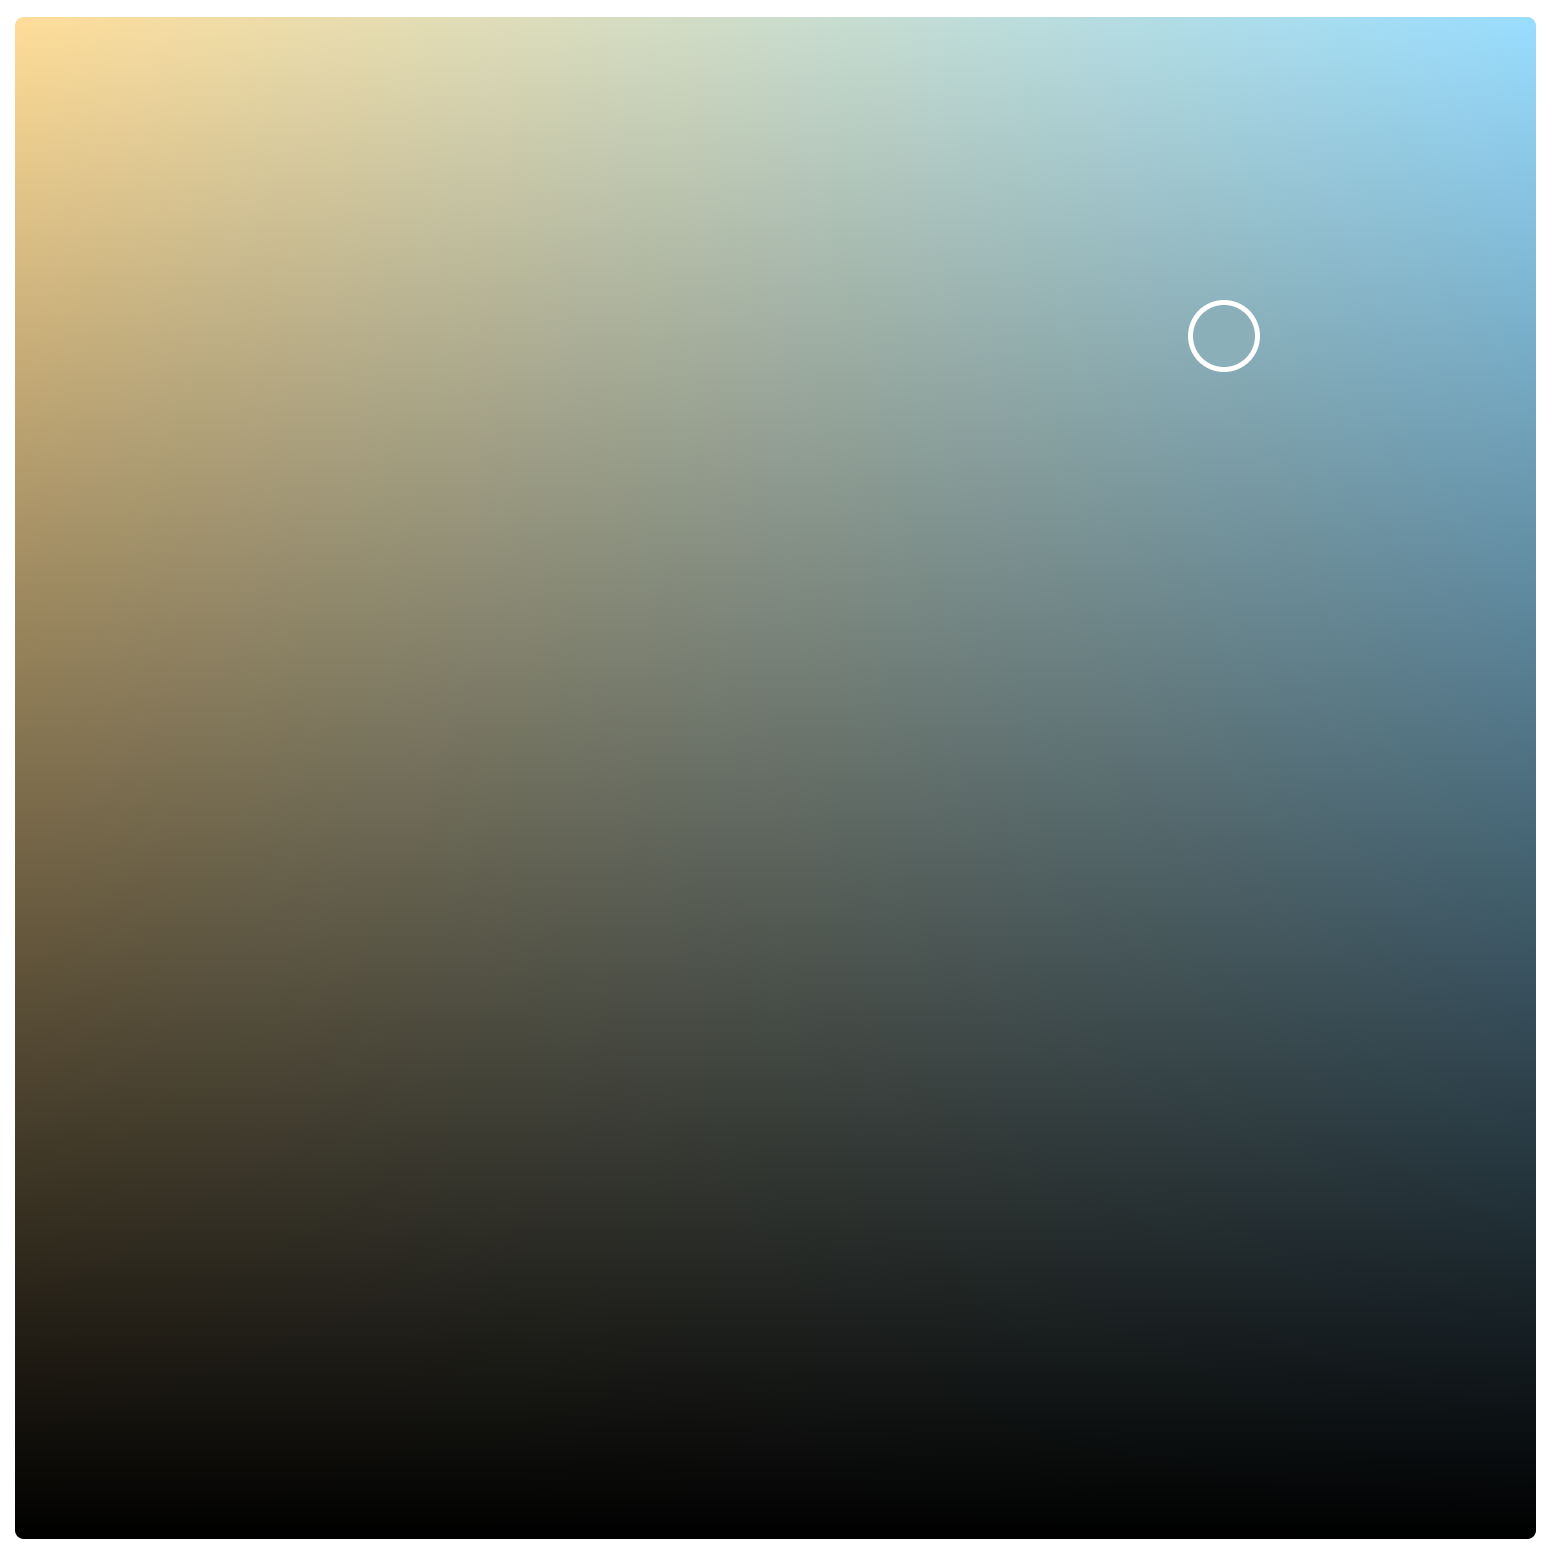
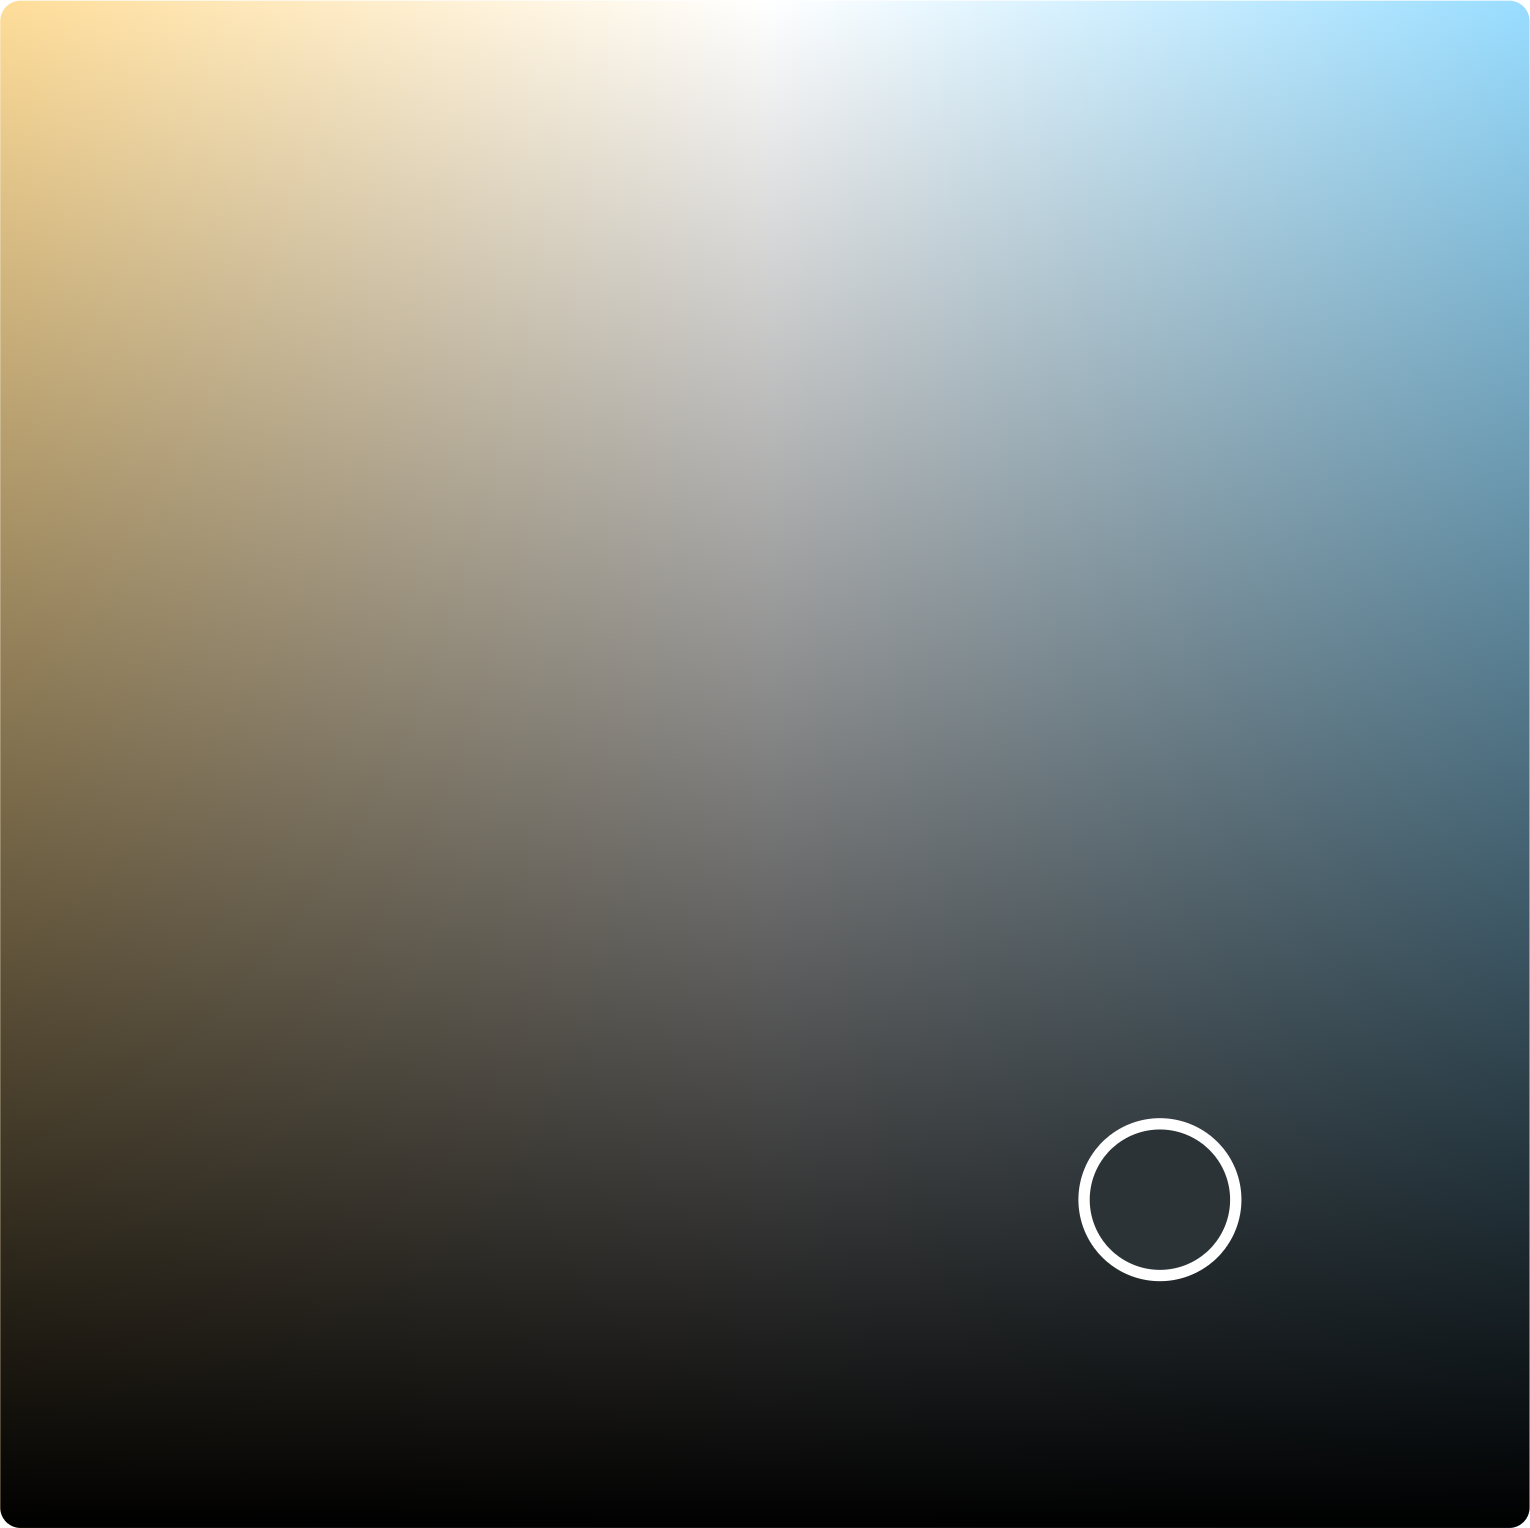
v0.3.0 (#4)
* add web component export

* improve readme

* add more options + changelog

* fix color conversion

* v0.3.0

* cleanup actions

* Update .mergify.yml

diff --git a/src/TwoChannelPicker.vue b/src/TwoChannelPicker.vue
@@ -22,6 +22,7 @@
 				:style="{
 					background: currentColor,
 					transform: translate,
+					...getMarkerStyles(_options),
 				}"
 			/>
 		</div>
@@ -39,20 +40,13 @@ export default {
 	mixins: [colorConversion],
 	props: {
 		value: {
-			type: Array,
+			type: [Array, String],
 			default: () => [1, 0],
 			validator: (v) => v[0] >= 0 && v[0] <= 1 && v[1] >= 0 && v[1] <= 1,
 		},
-		colorLeft: {
-			type: String,
-			default: "#fd9",
-		},
-		colorRight: {
-			type: String,
-			default: "#9df",
-		},
-		readOnly: {
-			type: Boolean,
+		options: {
+			type: Object,
+			default: () => ({}),
 		},
 	},
 	data() {
@@ -70,12 +64,22 @@ export default {
 			},
 		};
 	},
-	animation: {
-		animationFrame: undefined,
-		changeTimeout: undefined,
-		hasChangedLately: false,
-	},
 	computed: {
+		_options() {
+			return {
+				colorLeft: "#fd9",
+				colorRight: "#9df",
+				readOnly: false,
+				marker: {
+					radius: 16,
+					borderWidth: 2,
+				},
+				...this.getTypesafeAttr(this.options),
+			};
+		},
+		typeSafeValue() {
+			return this.getTypesafeAttr(this.value);
+		},
 		currentColor() {
 			return this.getColorForPosition({
 				x: this.marker.x,
@@ -86,8 +90,8 @@ export default {
 			return this.getTranslate(this.marker.x, this.marker.y);
 		},
 		colorMid() {
-			const cA = this.hex2rgb(this.colorLeft);
-			const cB = this.hex2rgb(this.colorRight);
+			const cA = this.hex2rgb(this._options.colorLeft);
+			const cB = this.hex2rgb(this._options.colorRight);
 			const maxColor = (v1, v2) => {
 				const s = v1 + v2;
 				return s > 255 ? 255 : s;
@@ -99,7 +103,7 @@ export default {
 			});
 		},
 		backgroundGradient() {
-			return `linear-gradient(to right, ${this.colorLeft} 0%, ${this.colorMid} 50%, ${this.colorRight} 100%)`;
+			return `linear-gradient(to right, ${this._options.colorLeft} 0%, ${this.colorMid} 50%, ${this._options.colorRight} 100%)`;
 		},
 	},
 	watch: {
@@ -107,7 +111,7 @@ export default {
 			const channels = this.getChannelsForPosition(this.marker);
 			this.$emit("input", channels);
 		},
-		value: {
+		typeSafeValue: {
 			immediate: true,
 			handler(values) {
 				if (this.$options.hasChangedLately) {
@@ -126,30 +130,49 @@ export default {
 			},
 		},
 	},
+	animation: {
+		animationFrame: undefined,
+		changeTimeout: undefined,
+		hasChangedLately: false,
+	},
 	mounted() {
 		window.addEventListener("resize", this.resize);
-		this.resize();
+		setTimeout(this.resize, 0);
 	},
 	methods: {
+		getTypesafeAttr(value) {
+			try {
+				if (typeof value === "string") {
+					return JSON.parse(value);
+				} else {
+					return value;
+				}
+			} catch (error) {
+				console.error(error);
+			}
+			console.error("unable to type convert attribute");
+			return value;
+		},
 		/*
 			START MARKER POSITIONING
 		*/
 		start(event) {
-			if (this.readOnly) {
+			if (this._options.readOnly) {
 				return;
 			}
+			this.resize();
 			this.dragActive = true;
 			this.move(event);
 		},
 		end(event) {
-			if (this.readOnly) {
+			if (this._options.readOnly) {
 				return;
 			}
 			this.move(event);
 			this.dragActive = false;
 		},
 		move(event) {
-			if (this.readOnly) {
+			if (this._options.readOnly) {
 				return;
 			}
 			// event.preventDefault();
@@ -174,6 +197,7 @@ export default {
 			this.frame.minY = boundingBox.top;
 			this.frame.maxX = boundingBox.right;
 			this.frame.maxY = boundingBox.bottom;
+			this.$forceUpdate();
 		},
 		_getEventPosition(event) {
 			// mouse
@@ -205,7 +229,7 @@ export default {
 			END MARKER POSITIONING
 		*/
 		/*
-			START MARKER COLOR
+			START MARKER STYLES
 		*/
 		getColorBetweenColors(colorA, colorB, position) {
 			const cA = this.hex2rgb(colorA);
@@ -221,14 +245,14 @@ export default {
 			let newColor;
 			if (x < 0.5) {
 				newColor = this.getColorBetweenColors(
-					this.colorLeft,
+					this._options.colorLeft,
 					this.colorMid,
 					x * 2
 				);
 			} else {
 				newColor = this.getColorBetweenColors(
 					this.colorMid,
-					this.colorRight,
+					this._options.colorRight,
 					(x - 0.5) * 2
 				);
 			}
@@ -237,8 +261,17 @@ export default {
 			newColor.b = Math.round(newColor.b * y);
 			return this.rgb2hex(newColor);
 		},
+		getMarkerStyles(options) {
+			const { radius, borderWidth } = options.marker;
+			return {
+				padding: `${radius - borderWidth}px`,
+				"margin-bottom": `${-radius}px`,
+				"margin-left": `${-radius}px`,
+				"border-width": `${borderWidth}px`,
+			};
+		},
 		/*
-			END MARKER COLOR
+			END MARKER STYLES
 		*/
 		/* START V-MODEL CALCULATIONS */
 		getChannelsForPosition({ x, y }) {
@@ -286,9 +319,6 @@ $borderWidth: 2px;
 	left: 0;
 	z-index: 2;
 	display: inline-block;
-	padding: ($height / 2) - $borderWidth;
-	margin-bottom: -($height / 2);
-	margin-left: -($height / 2);
 	border: $borderWidth solid var(--color-border-i, #fff);
 	border-radius: 50%;
 

diff --git a/src/Dev.vue b/src/Dev.vue
@@ -1,7 +1,7 @@
 <template>
 	<div class="wrapper">
 		<h1> {{ formatedValue }} </h1>
-		<Picker v-model="value" class="picker" />
+		<Picker v-model="value" :options="{ colorLeft: '#f00' }" class="picker" />
 	</div>
 </template>
 

diff --git a/README.md b/README.md
@@ -2,11 +2,25 @@
 
 > A simple two channel Color Picker
 
-![two channel picker screenshot](docs/img/screenshot.png)
+## About
+
+I needed an intuitive color picker to control my warm-white-cold-white (WWCW) LED Strips with the [SmartLight Project](https://github.com/adrianjost/SmartLight-Web-Client).
+
+<p align="center">
+  <img src="docs/img/screenshot.png" alt="two channel picker screenshot" style="max-width: 300px;">
+</p>
+
+The picker value is therefore indepent from the displayed color. The given value is a number between 0 and 1 for each of the two channels. The brightness can be determined by dragging the slider along the Y-axis. Dragging along the X-axis changes the relationship between the two channels.
+
+<p align="center">
+  <img src="docs/img/values.png" align="center" alt="two channel picker screenshot" style="max-width: 500px;">
+</p>
 
 ## Usage
 
-### 1. Install
+### Vue
+
+Install the package:
 
 ```bash
 npm i @adrianjost/two-channel-picker
@@ -18,29 +32,74 @@ or
 yarn add @adrianjost/two-channel-picker
 ```
 
-### 2. Usage in Component (Vue)
+In your App:
 
 ```vue
 <template>
-  <TwoChannelPicker
-    v-model="channels"
-    colorLeft="#f00"
-    colorRight="#00f"
-  />
+	<TwoChannelPicker v-model="channels" colorLeft="#fd9" colorRight="#9df" />
 </template>
 
 <script>
-import TwoChannelPicker from "@adrianjost/two-channel-picker"
+import TwoChannelPicker from "@adrianjost/two-channel-picker";
 
 export default {
-  components: {
-    TwoChannelPicker
-  },
-  data(){
-    return {
-      channels: [0, 1]
-    }
-  }
-}
+	components: {
+		TwoChannelPicker,
+	},
+	data() {
+		return {
+			channels: [0, 1],
+		};
+	},
+};
 </script>
 ```
+
+### As a native Web Component
+
+```html
+<script src="https://cdn.jsdelivr.net/npm/@adrianjost/two-channel-picker@0.3.0/dist/wc/two-channel-picker.min.js"></script>
+
+<div style="width: 300px; height: 300px;">
+	<two-channel-picker
+		value="[0,1]"
+		id="picker"
+		options='{"colorLeft": "#f00", "colorRight": "#00f" }'
+	></two-channel-picker>
+</div>
+
+<script>
+	document.getElementById("picker").addEventListener("input", (event) => {
+		console.log(event.detail[0]);
+	});
+</script>
+```
+
+> please note, that you may need to adjust the version number in the url.
+
+## API
+
+### Props
+
+You can customize the picker with the following props/attributes.
+
+> When using the lib as a web component you must provide all attributes `JSON.stringify()`-ed.
+
+| attribute | type | default value | description |
+| --- | --- | --- | --- |
+| `value` / `v-model` | Array, String | `[1,0]` | the current channel values, if provided as a String, this must be `JSON.parse()`-able |
+| `options` | Object | `{}` | all your config goes in here |
+
+#### Options
+
+Available Attributes in the `options` prop:
+
+| attribute | type | default value | description |
+| --- | --- | --- | --- |
+| `readOnly` | Boolean | `false` | should the user be able to move the marker? |
+| `colorLeft` | String | `#fd9` | the color in the top left corner. Must be in the HEX Format with 3 or 6 digits. |
+| `colorRight` | String | `#fd9` | the color in the top right corner. Must be in the HEX Format with 3 or 6 digits. |
+| `marker.borderWidth` | Number | `2` | The border width of the active marker in px. |
+| `marker.radius` | Number | `16` | The border radius including the borderWidth in px. |
+
+You need more options? Please open an issue and I will do my best to implement it. Pull Requests are also welcome!

diff --git a/CHANGELOG.md b/CHANGELOG.md
@@ -1,0 +1,19 @@
+# 0.3.0
+
+**Additions**
+
+- add native WebComponents support including attribute type conversion.
+
+**Changes**
+
+- added `options` attribute where all options (`colorLeft`, `colorRight`, ...) now must be placed in. The old Attributes were removed.
+
+# 0.2.0
+
+**Fixes**
+
+- channel value `[1,1]` was not reachable. The top center value is therefore now `[1,1]`
+
+# 0.1.0
+
+- Initial Release, may be buggy, unstable and not ready for production until version 1.0.0 is reached.
